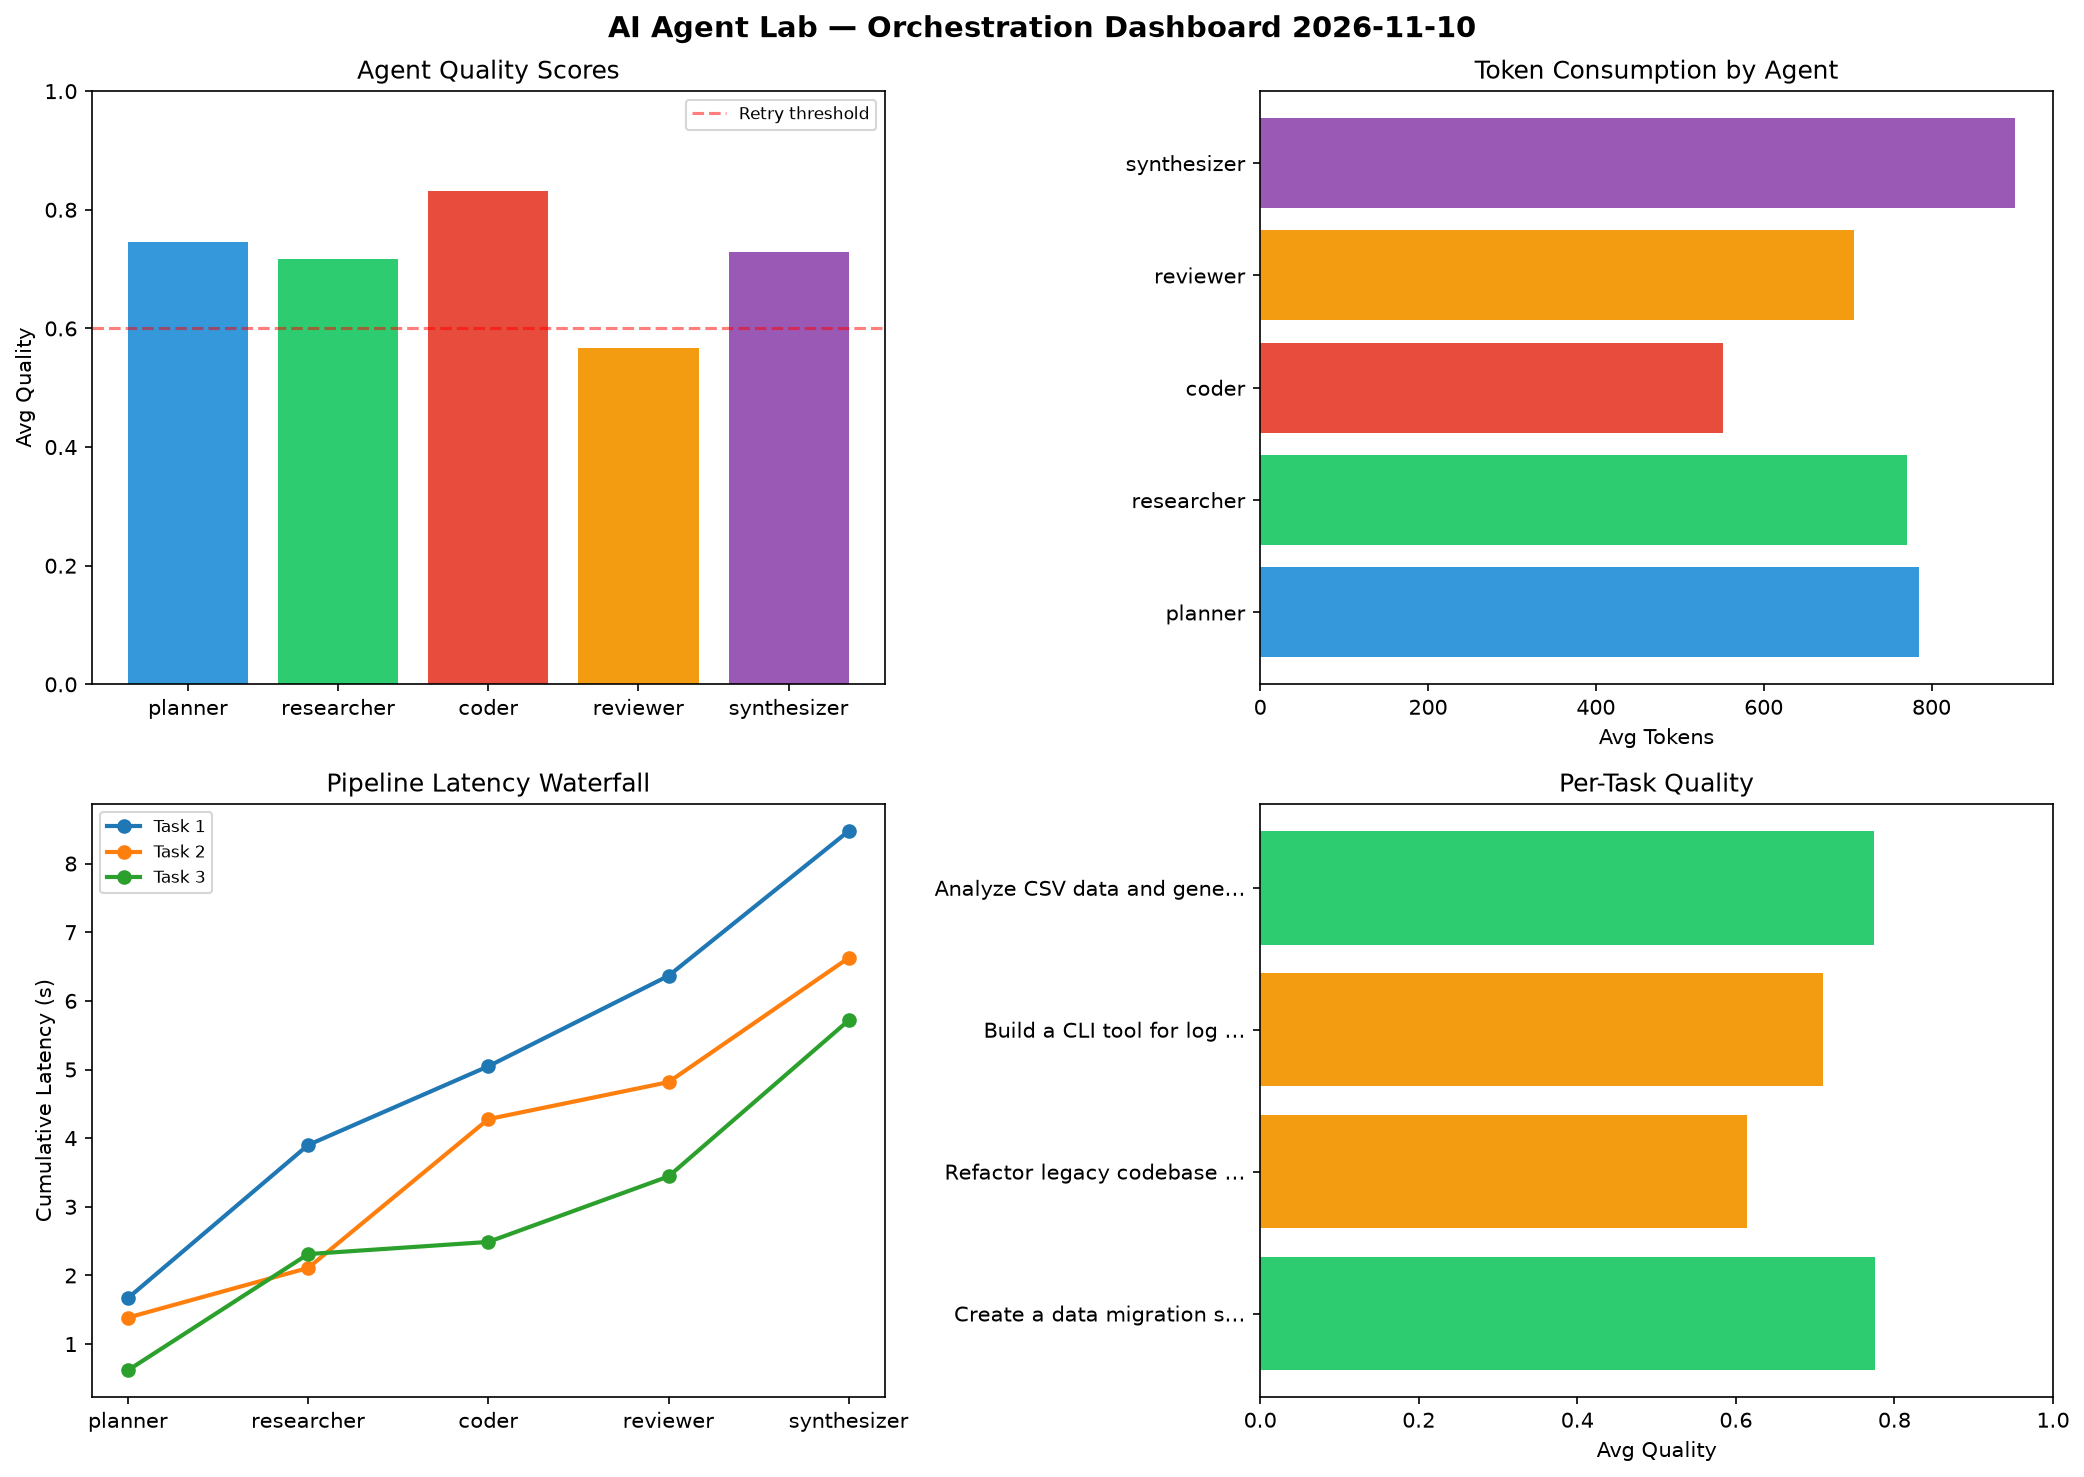
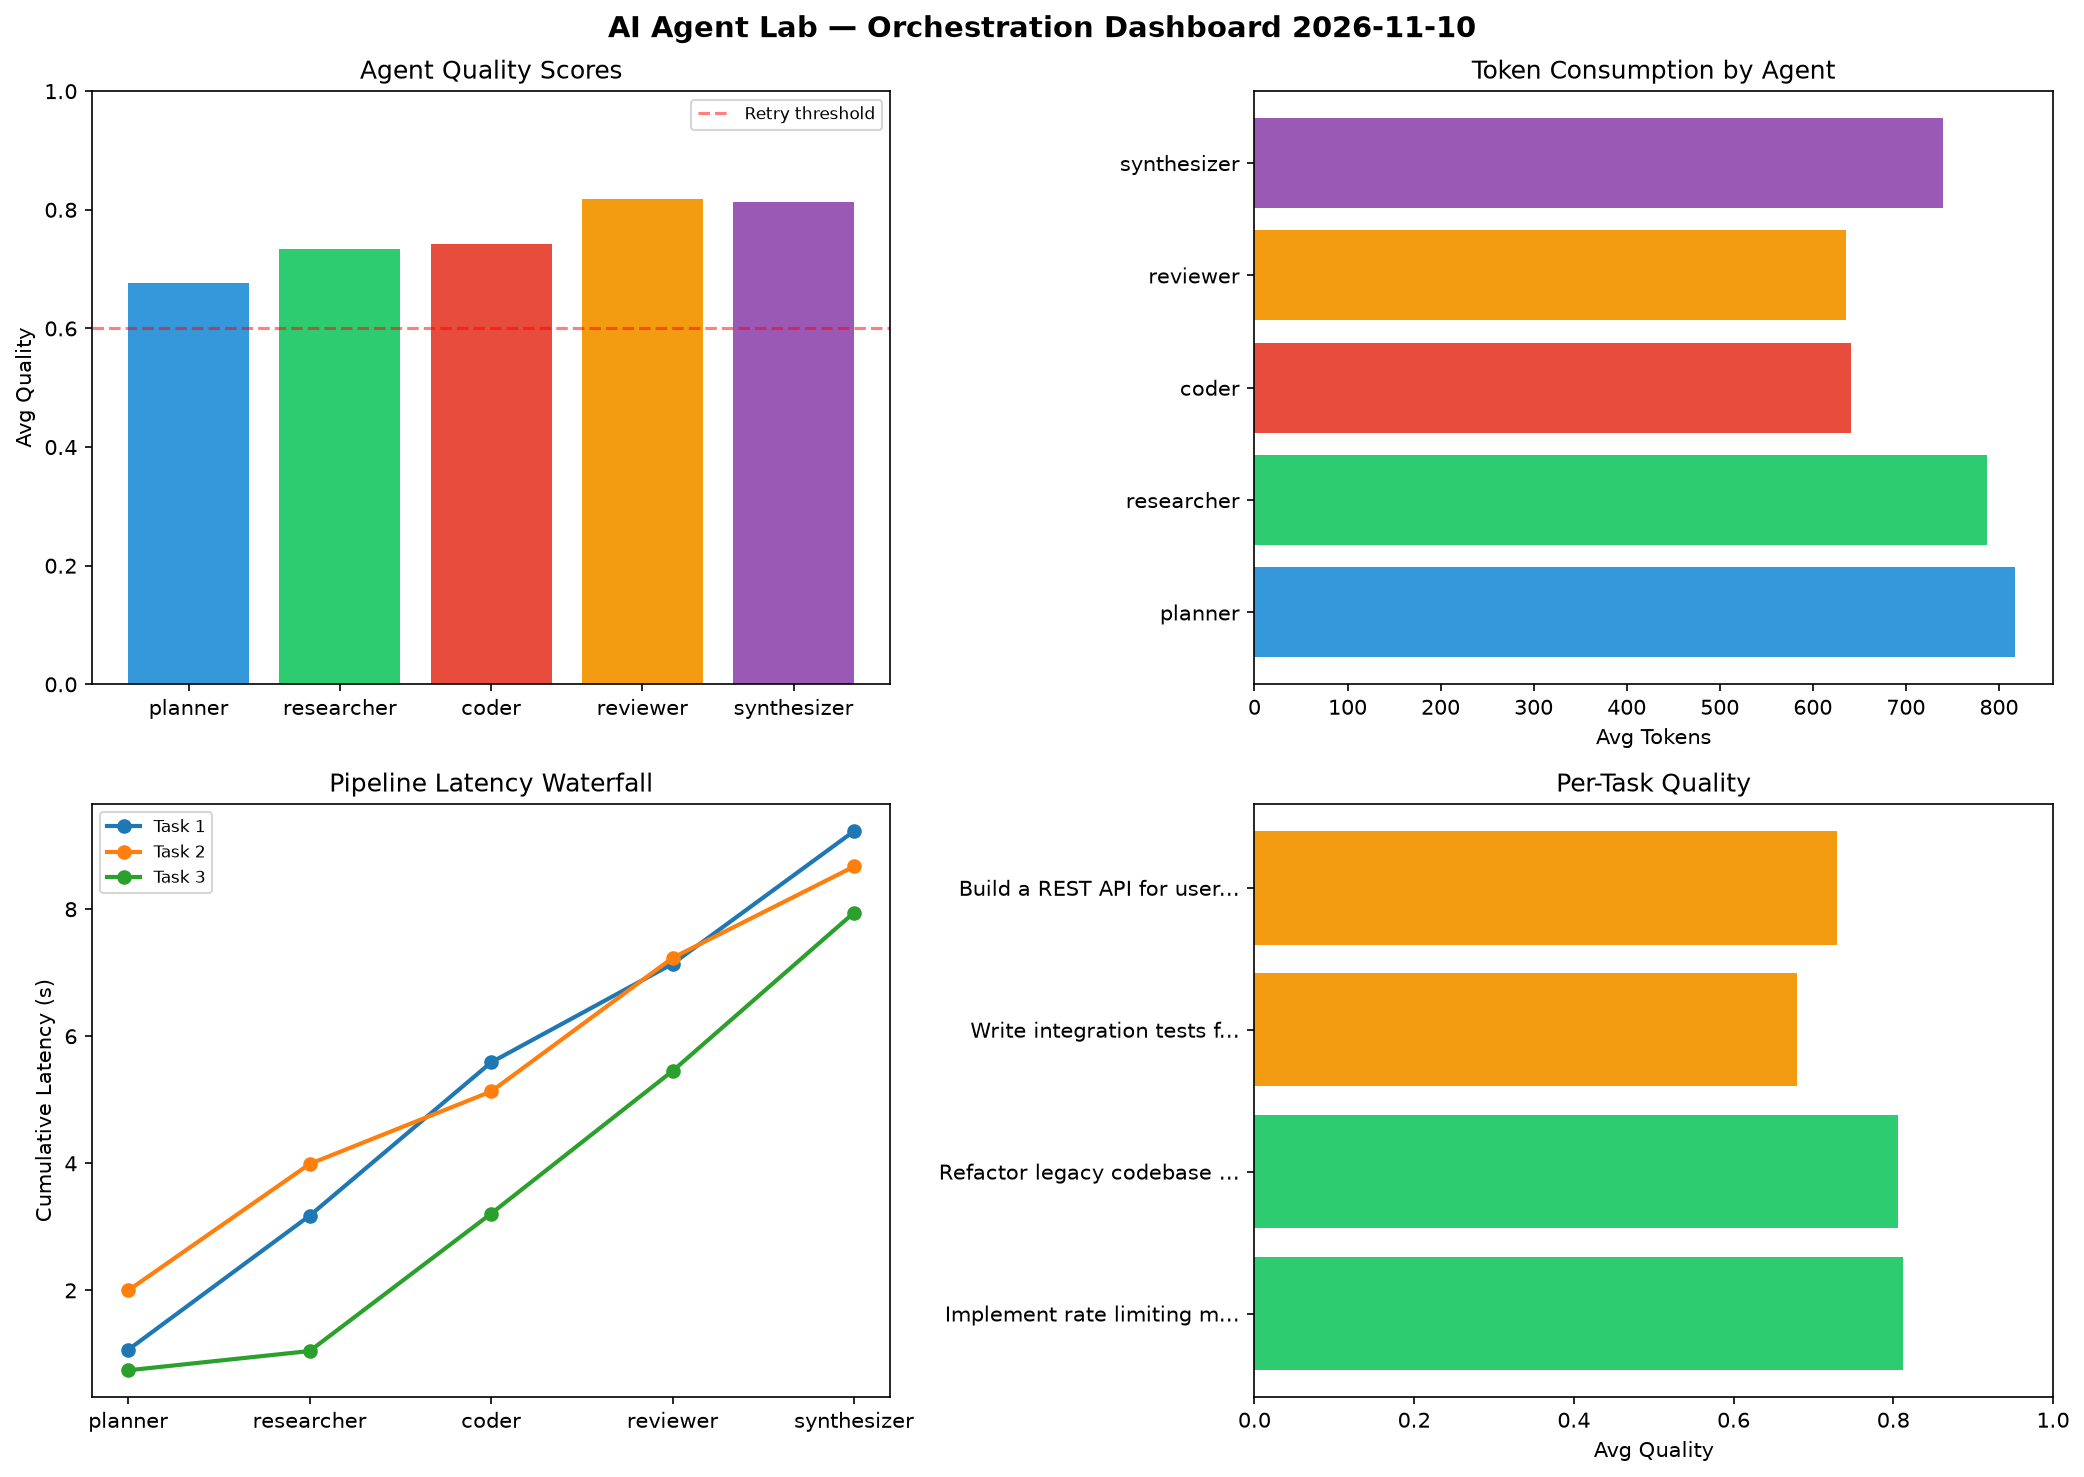
ai-agent-lab: orchestration run 2026-11-10T20:51

diff --git a/logs/2026-11-10.md b/logs/2026-11-10.md
@@ -1,6 +1,6 @@
 # AI Agent Lab — Orchestration Report 2026-11-10
 
-**Run ID:** `dbe570dd39` | **Tasks:** 4 | **Avg Quality:** 0.718
+**Run ID:** `cdf6b38f0f` | **Tasks:** 4 | **Avg Quality:** 0.757
 
 ![Dashboard](2026-11-10_dashboard.png)
 
@@ -8,52 +8,52 @@
 
 | Metric | Value |
 |--------|-------|
-| avg_latency | 7.128 |
-| total_tokens | 14858 |
-| avg_quality | 0.718 |
+| avg_latency | 8.042 |
+| total_tokens | 14481 |
+| avg_quality | 0.757 |
 
 ## Delta vs Yesterday
 
 | Metric | Today | Yesterday | Change |
 |--------|-------|-----------|--------|
-| avg_latency | 7.128 | 5.003 | 📈 42.5% |
-| total_tokens | 14858 | 13587 | 📈 9.4% |
-| avg_quality | 0.718 | 0.722 | 📉 -0.6% |
+| avg_latency | 8.042 | 5.003 | 📈 60.7% |
+| total_tokens | 14481 | 13587 | 📈 6.6% |
+| avg_quality | 0.757 | 0.722 | 📈 4.8% |
 
 ## Pipeline Results
 
-### Create a data migration script for schema v2
+### Implement rate limiting middleware
 | Agent | Quality | Latency | Tokens | Status |
 |-------|---------|---------|--------|--------|
-| planner | 0.978 | 1.67s | 846 | success |
-| researcher | 0.663 | 2.23s | 762 | success |
-| coder | 0.961 | 1.147s | 676 | success |
-| reviewer | 0.537 | 1.318s | 746 | needs_retry |
-| synthesizer | 0.737 | 2.109s | 1162 | success |
+| planner | 0.536 | 1.065s | 994 | needs_retry |
+| researcher | 0.902 | 2.111s | 711 | success |
+| coder | 0.975 | 2.413s | 857 | success |
+| reviewer | 0.76 | 1.552s | 885 | success |
+| synthesizer | 0.887 | 2.089s | 610 | success |
 
 ### Refactor legacy codebase to use dependency injection
 | Agent | Quality | Latency | Tokens | Status |
 |-------|---------|---------|--------|--------|
-| planner | 0.668 | 1.386s | 1145 | success |
-| researcher | 0.741 | 0.723s | 713 | success |
-| coder | 0.516 | 2.168s | 201 | needs_retry |
-| reviewer | 0.6 | 0.539s | 581 | needs_retry |
-| synthesizer | 0.544 | 1.81s | 510 | needs_retry |
+| planner | 0.832 | 1.999s | 1096 | success |
+| researcher | 0.675 | 1.991s | 593 | success |
+| coder | 0.728 | 1.141s | 713 | success |
+| reviewer | 0.969 | 2.103s | 443 | success |
+| synthesizer | 0.824 | 1.438s | 762 | success |
 
-### Build a CLI tool for log analysis
+### Write integration tests for payment processing module
 | Agent | Quality | Latency | Tokens | Status |
 |-------|---------|---------|--------|--------|
-| planner | 0.626 | 0.618s | 658 | success |
-| researcher | 0.632 | 1.693s | 564 | success |
-| coder | 0.962 | 0.177s | 697 | success |
-| reviewer | 0.563 | 0.954s | 436 | needs_retry |
-| synthesizer | 0.765 | 2.274s | 1083 | success |
+| planner | 0.679 | 0.742s | 674 | success |
+| researcher | 0.555 | 0.303s | 614 | needs_retry |
+| coder | 0.682 | 2.164s | 573 | success |
+| reviewer | 0.884 | 2.246s | 638 | success |
+| synthesizer | 0.602 | 2.492s | 728 | success |
 
-### Analyze CSV data and generate statistical summary
+### Build a REST API for user authentication
 | Agent | Quality | Latency | Tokens | Status |
 |-------|---------|---------|--------|--------|
-| planner | 0.709 | 2.31s | 492 | success |
-| researcher | 0.833 | 0.731s | 1043 | success |
-| coder | 0.887 | 0.253s | 630 | success |
-| reviewer | 0.568 | 2.445s | 1069 | needs_retry |
-| synthesizer | 0.871 | 1.958s | 844 | success |
+| planner | 0.656 | 2.307s | 505 | success |
+| researcher | 0.806 | 1.814s | 1232 | success |
+| coder | 0.584 | 0.463s | 420 | needs_retry |
+| reviewer | 0.66 | 0.667s | 575 | success |
+| synthesizer | 0.94 | 1.067s | 858 | success |
